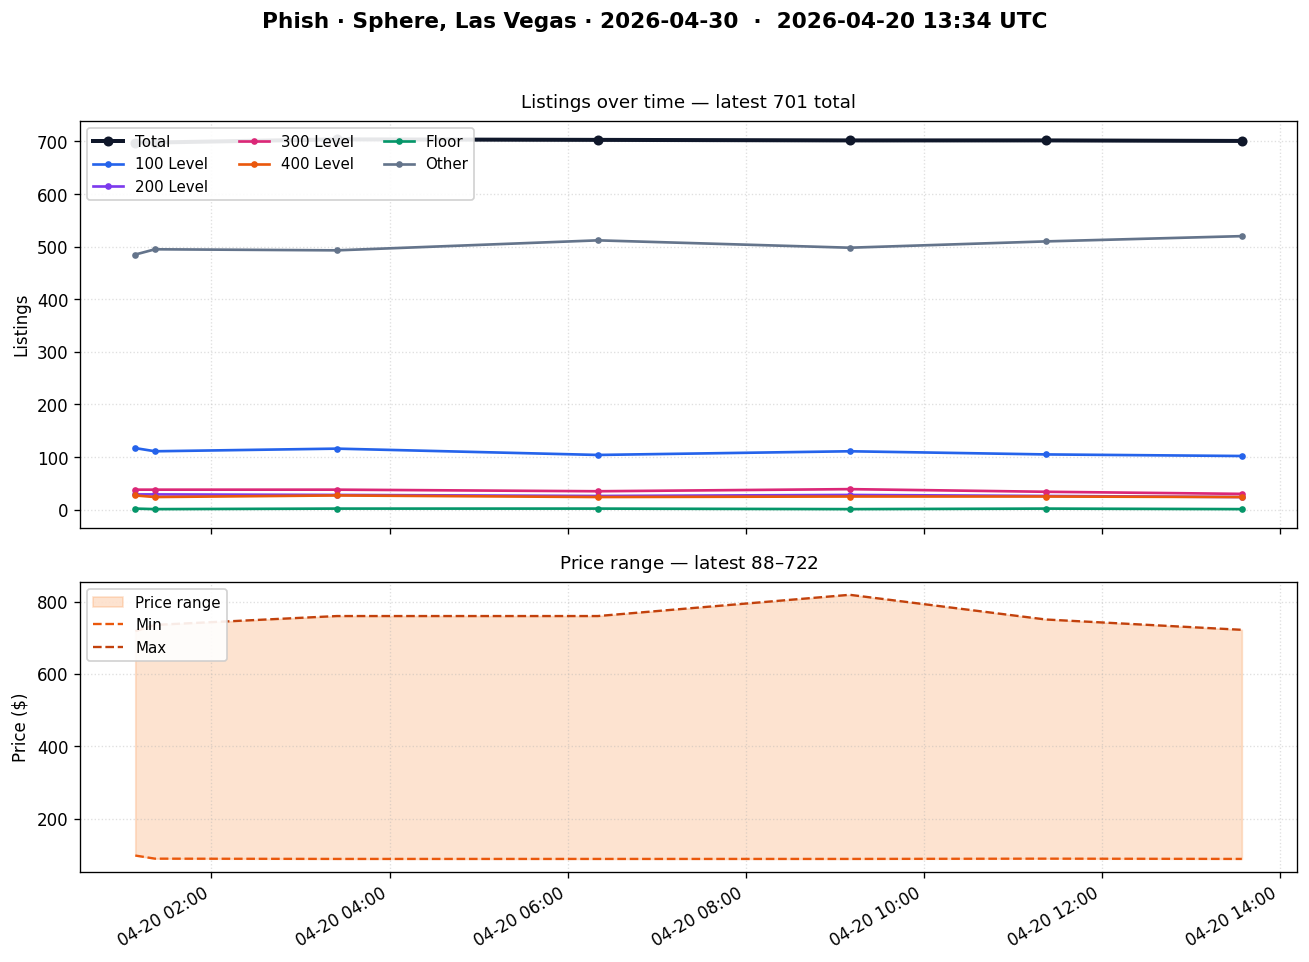
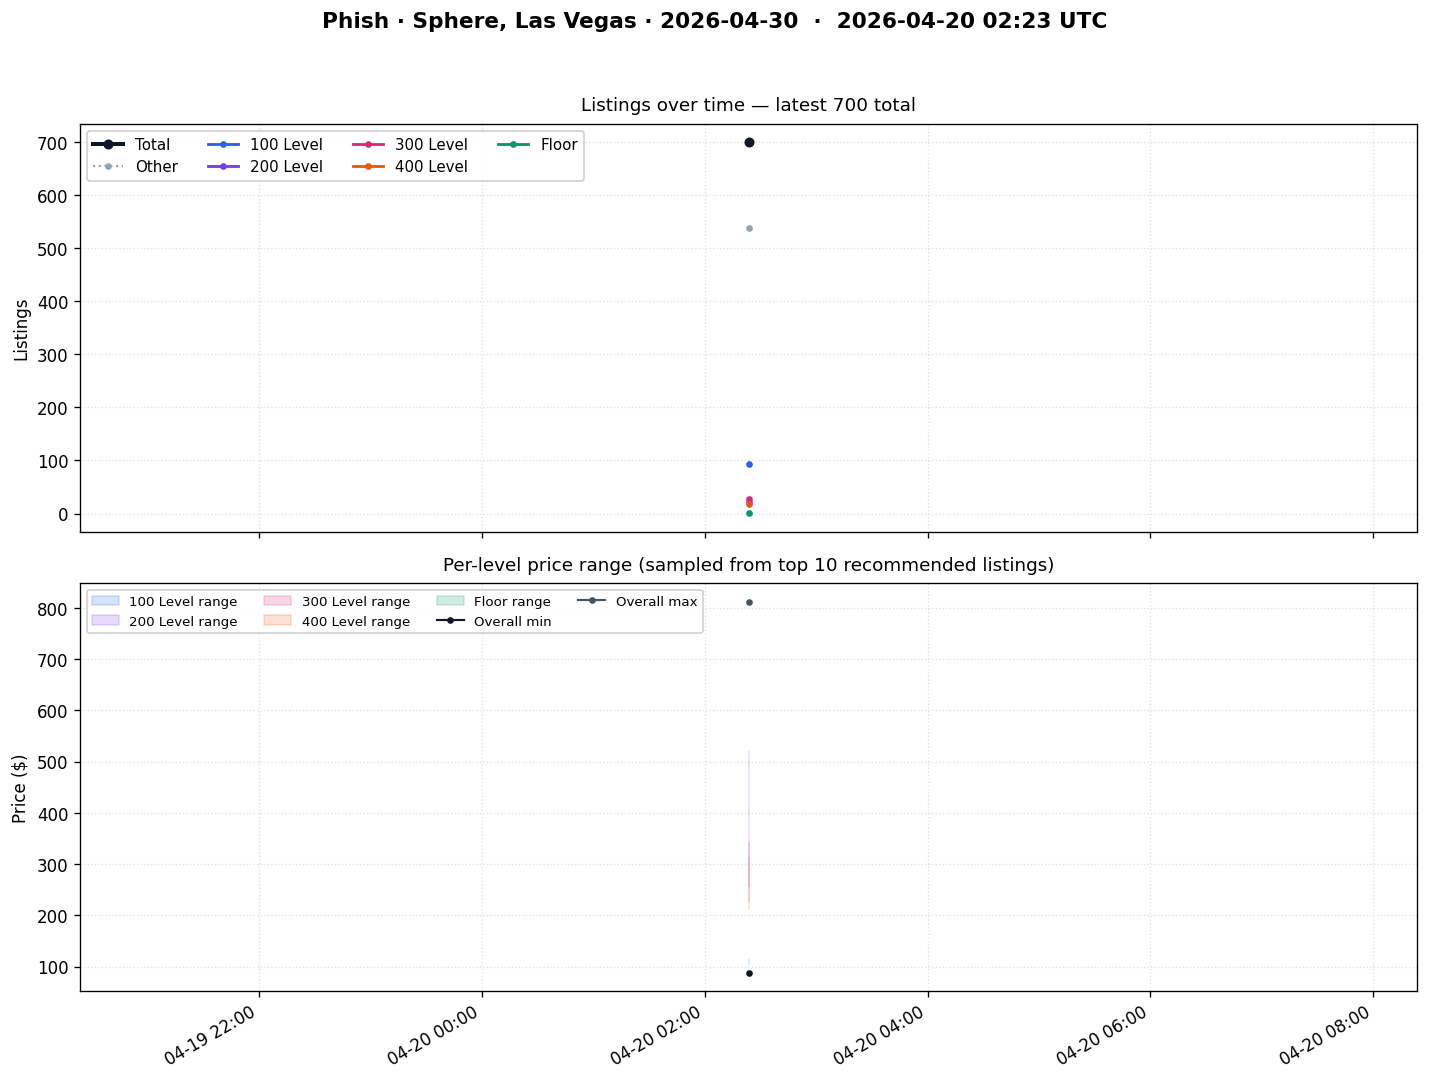
track per-level price range (min/max from sampled top 10 listings per class)

diff --git a/dashboard.html b/dashboard.html
@@ -44,6 +44,7 @@
   .stat .label { font-size: 11px; color: var(--muted); text-transform: uppercase; letter-spacing: 0.05em; }
   .stat .value { font-size: 22px; font-weight: 600; margin-top: 4px; }
   .stat .delta { font-size: 12px; color: var(--muted); margin-top: 2px; }
+  .stat .price-range { font-size: 11px; color: var(--muted); margin-top: 6px; font-variant-numeric: tabular-nums; }
   .delta.up { color: #15803d; }
   .delta.down { color: #b91c1c; }
   .stat.big .value { font-size: 28px; }
@@ -90,12 +91,12 @@
   </section>
 
   <section class="level-stats">
-    <div class="stat" style="border-left-color:#2563eb"><div class="label">100 Level</div><div class="value" id="s-100">—</div><div class="delta" id="s-100-delta"></div></div>
-    <div class="stat" style="border-left-color:#7c3aed"><div class="label">200 Level</div><div class="value" id="s-200">—</div><div class="delta" id="s-200-delta"></div></div>
-    <div class="stat" style="border-left-color:#db2777"><div class="label">300 Level</div><div class="value" id="s-300">—</div><div class="delta" id="s-300-delta"></div></div>
-    <div class="stat" style="border-left-color:#ea580c"><div class="label">400 Level</div><div class="value" id="s-400">—</div><div class="delta" id="s-400-delta"></div></div>
-    <div class="stat" style="border-left-color:#059669"><div class="label">Floor</div><div class="value" id="s-floor">—</div><div class="delta" id="s-floor-delta"></div></div>
-    <div class="stat" style="border-left-color:#64748b"><div class="label">Other (Suites, zones)</div><div class="value" id="s-other">—</div><div class="delta" id="s-other-delta"></div></div>
+    <div class="stat" style="border-left-color:#2563eb"><div class="label">100 Level</div><div class="value" id="s-100">—</div><div class="delta" id="s-100-delta"></div><div class="price-range" id="s-100-price">—</div></div>
+    <div class="stat" style="border-left-color:#7c3aed"><div class="label">200 Level</div><div class="value" id="s-200">—</div><div class="delta" id="s-200-delta"></div><div class="price-range" id="s-200-price">—</div></div>
+    <div class="stat" style="border-left-color:#db2777"><div class="label">300 Level</div><div class="value" id="s-300">—</div><div class="delta" id="s-300-delta"></div><div class="price-range" id="s-300-price">—</div></div>
+    <div class="stat" style="border-left-color:#ea580c"><div class="label">400 Level</div><div class="value" id="s-400">—</div><div class="delta" id="s-400-delta"></div><div class="price-range" id="s-400-price">—</div></div>
+    <div class="stat" style="border-left-color:#059669"><div class="label">Floor</div><div class="value" id="s-floor">—</div><div class="delta" id="s-floor-delta"></div><div class="price-range" id="s-floor-price">—</div></div>
+    <div class="stat" style="border-left-color:#64748b"><div class="label">Other (Suites, zones)</div><div class="value" id="s-other">—</div><div class="delta" id="s-other-delta"></div><div class="price-range">—</div></div>
   </section>
 
   <div class="chart-card">
@@ -107,14 +108,13 @@
     <thead><tr>
       <th>Timestamp (UTC)</th>
       <th class="num">Total</th>
-      <th class="num">100</th>
-      <th class="num">200</th>
-      <th class="num">300</th>
-      <th class="num">400</th>
-      <th class="num">Floor</th>
+      <th class="num">100</th><th class="num">100 $</th>
+      <th class="num">200</th><th class="num">200 $</th>
+      <th class="num">300</th><th class="num">300 $</th>
+      <th class="num">400</th><th class="num">400 $</th>
+      <th class="num">Floor</th><th class="num">Floor $</th>
       <th class="num">Other</th>
-      <th class="num">Min $</th>
-      <th class="num">Max $</th>
+      <th class="num">Overall $</th>
     </tr></thead>
     <tbody></tbody>
   </table>
@@ -194,22 +194,37 @@ async function refresh() {
     LEVEL_IDS.forEach(([col, id]) => {
       document.getElementById(id).textContent = fmt(latest[col]);
       if (prev) document.getElementById(id + "-delta").innerHTML = delta(latest[col], prev[col]);
+      // Per-level price range (skip for "other")
+      const priceEl = document.getElementById(id + "-price");
+      if (priceEl) {
+        const key = col.replace("count_", "");
+        const mn = latest[`min_${key}`];
+        const mx = latest[`max_${key}`];
+        if (mn && mx && !isNaN(+mn) && !isNaN(+mx)) {
+          priceEl.textContent = `$${fmt(mn)}–$${fmt(mx)}`;
+        } else {
+          priceEl.textContent = "—";
+        }
+      }
     });
 
     const tbody = document.querySelector("#table tbody");
     tbody.innerHTML = "";
+    const priceCell = (mn, mx) => {
+      if (!mn || !mx || isNaN(+mn) || isNaN(+mx)) return `<td class="num">—</td>`;
+      return `<td class="num">$${fmt(mn)}–$${fmt(mx)}</td>`;
+    };
     rows.slice(-20).reverse().forEach(r => {
       const tr = document.createElement("tr");
       tr.innerHTML = `<td>${r.timestamp_utc}</td>`
         + `<td class="num"><b>${fmt(r.total_listings)}</b></td>`
-        + `<td class="num">${fmt(r.count_100)}</td>`
-        + `<td class="num">${fmt(r.count_200)}</td>`
-        + `<td class="num">${fmt(r.count_300)}</td>`
-        + `<td class="num">${fmt(r.count_400)}</td>`
-        + `<td class="num">${fmt(r.count_floor)}</td>`
+        + `<td class="num">${fmt(r.count_100)}</td>` + priceCell(r.min_100, r.max_100)
+        + `<td class="num">${fmt(r.count_200)}</td>` + priceCell(r.min_200, r.max_200)
+        + `<td class="num">${fmt(r.count_300)}</td>` + priceCell(r.min_300, r.max_300)
+        + `<td class="num">${fmt(r.count_400)}</td>` + priceCell(r.min_400, r.max_400)
+        + `<td class="num">${fmt(r.count_floor)}</td>` + priceCell(r.min_floor, r.max_floor)
         + `<td class="num">${fmt(r.count_other)}</td>`
-        + `<td class="num">$${fmt(r.min_price)}</td>`
-        + `<td class="num">$${fmt(r.max_price)}</td>`;
+        + `<td class="num">$${fmt(r.min_price)}–$${fmt(r.max_price)}</td>`;
       tbody.appendChild(tr);
     });
 

diff --git a/plot.py b/plot.py
@@ -1,4 +1,4 @@
-"""Render chart.png from data.csv: total + per-level listings + price range over time."""
+"""Render chart.png from data.csv: per-level listings and price ranges over time."""
 
 from __future__ import annotations
 
@@ -16,13 +16,13 @@ DATA = ROOT / "data.csv"
 OUT = ROOT / "chart.png"
 EVENT_LABEL = "Phish · Sphere, Las Vegas · 2026-04-30"
 
+# key, label, color
 LEVELS = [
-    ("count_100", "100 Level", "#2563eb"),
-    ("count_200", "200 Level", "#7c3aed"),
-    ("count_300", "300 Level", "#db2777"),
-    ("count_400", "400 Level", "#ea580c"),
-    ("count_floor", "Floor", "#059669"),
-    ("count_other", "Other", "#64748b"),
+    ("100", "100 Level", "#2563eb"),
+    ("200", "200 Level", "#7c3aed"),
+    ("300", "300 Level", "#db2777"),
+    ("400", "400 Level", "#ea580c"),
+    ("floor", "Floor", "#059669"),
 ]
 
 
@@ -37,56 +37,71 @@ def main() -> int:
         print("no valid rows to plot", file=sys.stderr)
         return 1
 
-    fig, (ax_top, ax_bot) = plt.subplots(
-        2, 1, figsize=(11, 8), sharex=True,
-        gridspec_kw={"height_ratios": [1.4, 1]},
+    fig, (ax_count, ax_price) = plt.subplots(
+        2, 1, figsize=(12, 9), sharex=True,
+        gridspec_kw={"height_ratios": [1, 1]},
     )
 
-    # Top: total + per-level lines
-    ax_top.plot(
+    # Top: total + per-level listing counts
+    ax_count.plot(
         df["timestamp_utc"], df["total_listings"],
         color="#0f172a", linewidth=2.4, marker="o", markersize=5, label="Total",
     )
-    for col, label, color in LEVELS:
-        if col not in df.columns or df[col].isna().all():
-            continue
-        ax_top.plot(
-            df["timestamp_utc"], df[col],
-            color=color, linewidth=1.6, marker="o", markersize=3, label=label,
+    if "count_other" in df.columns and df["count_other"].notna().any():
+        ax_count.plot(
+            df["timestamp_utc"], df["count_other"],
+            color="#94a3b8", linewidth=1.3, linestyle=":", marker="o", markersize=3, label="Other",
         )
-    ax_top.set_ylabel("Listings")
-    ax_top.grid(True, linestyle=":", alpha=0.4)
-    ax_top.legend(loc="upper left", framealpha=0.9, fontsize=9, ncol=3)
-    ax_top.set_title(
-        f"Listings over time — latest {int(df.iloc[-1]['total_listings'])} total",
+    for key, label, color in LEVELS:
+        col = f"count_{key}"
+        if col in df.columns and df[col].notna().any():
+            ax_count.plot(
+                df["timestamp_utc"], df[col],
+                color=color, linewidth=1.7, marker="o", markersize=3, label=label,
+            )
+    ax_count.set_ylabel("Listings")
+    ax_count.grid(True, linestyle=":", alpha=0.4)
+    ax_count.legend(loc="upper left", framealpha=0.9, fontsize=9, ncol=4)
+    latest = df.iloc[-1]
+    ax_count.set_title(
+        f"Listings over time — latest {int(latest['total_listings'])} total",
         fontsize=11, pad=8,
     )
 
-    # Bottom: price range band
-    has_prices = df["min_price"].notna().any() and df["max_price"].notna().any()
-    if has_prices:
-        ax_bot.fill_between(
-            df["timestamp_utc"], df["min_price"], df["max_price"],
-            color="#f97316", alpha=0.2, label="Price range",
+    # Bottom: per-level price range bands + overall line
+    for key, label, color in LEVELS:
+        mn, mx = f"min_{key}", f"max_{key}"
+        if mn in df.columns and mx in df.columns and df[mn].notna().any():
+            ax_price.fill_between(
+                df["timestamp_utc"], df[mn], df[mx],
+                color=color, alpha=0.18, label=f"{label} range",
+            )
+            ax_price.plot(df["timestamp_utc"], df[mn], color=color, linewidth=1.3, linestyle="--", alpha=0.9)
+            ax_price.plot(df["timestamp_utc"], df[mx], color=color, linewidth=1.3, linestyle="--", alpha=0.9)
+
+    if df["min_price"].notna().any():
+        ax_price.plot(
+            df["timestamp_utc"], df["min_price"],
+            color="#0f172a", linewidth=1.3, marker="o", markersize=3, label="Overall min",
         )
-        ax_bot.plot(df["timestamp_utc"], df["min_price"],
-                    color="#ea580c", linewidth=1.4, linestyle="--", label="Min")
-        ax_bot.plot(df["timestamp_utc"], df["max_price"],
-                    color="#c2410c", linewidth=1.4, linestyle="--", label="Max")
-    ax_bot.set_ylabel("Price ($)")
-    ax_bot.grid(True, linestyle=":", alpha=0.4)
-    ax_bot.legend(loc="upper left", framealpha=0.9, fontsize=9)
-    latest = df.iloc[-1]
-    if pd.notna(latest.get("min_price")) and pd.notna(latest.get("max_price")):
-        ax_bot.set_title(
-            f"Price range — latest ${latest['min_price']:.0f}–${latest['max_price']:.0f}",
-            fontsize=11, pad=8,
+    if df["max_price"].notna().any():
+        ax_price.plot(
+            df["timestamp_utc"], df["max_price"],
+            color="#475569", linewidth=1.3, marker="o", markersize=3, label="Overall max",
         )
 
-    ax_bot.xaxis.set_major_formatter(mdates.DateFormatter("%m-%d %H:%M"))
+    ax_price.set_ylabel("Price ($)")
+    ax_price.grid(True, linestyle=":", alpha=0.4)
+    ax_price.legend(loc="upper left", framealpha=0.9, fontsize=8, ncol=4)
+    ax_price.set_title(
+        "Per-level price range (sampled from top 10 recommended listings)",
+        fontsize=11, pad=8,
+    )
+
+    ax_price.xaxis.set_major_formatter(mdates.DateFormatter("%m-%d %H:%M"))
     if len(df) < 3:
         center = df["timestamp_utc"].iloc[-1]
-        ax_bot.set_xlim(center - pd.Timedelta(hours=6), center + pd.Timedelta(hours=6))
+        ax_price.set_xlim(center - pd.Timedelta(hours=6), center + pd.Timedelta(hours=6))
     fig.autofmt_xdate()
 
     fig.suptitle(

diff --git a/monitor.py b/monitor.py
@@ -23,20 +23,22 @@ DATA_CSV = Path(__file__).parent / "data.csv"
 # Sphere ticket classes. Stable for this event's lifetime.
 # Source: /index-data -> ticketClasses[*].{ticketClassId, name}
 TICKET_CLASSES: list[tuple[int, str, str]] = [
-    (3788, "100 Level", "count_100"),
-    (3803, "200 Level", "count_200"),
-    (17690, "300 Level", "count_300"),
-    (8152, "400 Level", "count_400"),
-    (682, "Floor", "count_floor"),
+    (3788, "100 Level", "100"),
+    (3803, "200 Level", "200"),
+    (17690, "300 Level", "300"),
+    (8152, "400 Level", "400"),
+    (682, "Floor", "floor"),
 ]
 
 CSV_COLUMNS = [
     "timestamp_utc",
     "total_listings",
-    *(col for _, _, col in TICKET_CLASSES),
+    *(f"count_{k}" for _, _, k in TICKET_CLASSES),
     "count_other",
     "min_price",
     "max_price",
+    *(f"min_{k}" for _, _, k in TICKET_CLASSES),
+    *(f"max_{k}" for _, _, k in TICKET_CLASSES),
     "available_tickets",
 ]
 
@@ -111,7 +113,7 @@ def scrape() -> dict:
                 row["min_price"] = min_p
                 row["max_price"] = max_p
 
-            for tc_id, tc_name, col in TICKET_CLASSES:
+            for tc_id, tc_name, key in TICKET_CLASSES:
                 # quantity=0 → include listings of any size (single + pairs + groups)
                 url = f"{EVENT_URL}?ticketClasses={tc_id}&quantity=0"
                 d = fetch_index_data(page, url)
@@ -119,16 +121,23 @@ def scrape() -> dict:
                     continue
                 grid = d.get("grid") or {}
                 count = grid.get("totalFilteredListings")
-                if count is None:
+                if count is not None:
+                    row[f"count_{key}"] = count
+                else:
                     print(f"warning: no totalFilteredListings for {tc_name}", file=sys.stderr)
-                    continue
-                row[col] = count
+                # Per-class price range from visible items (sample of top 10 recommended)
+                items = grid.get("items") or []
+                prices = [i.get("rawPrice") for i in items if isinstance(i.get("rawPrice"), (int, float))]
+                if prices:
+                    row[f"min_{key}"] = round(min(prices), 2)
+                    row[f"max_{key}"] = round(max(prices), 2)
         finally:
             browser.close()
 
     # Derive "other" bucket (Suites, zone tickets, etc. not in the 5 named levels).
     per_level_sum = sum(
-        row[col] for _, _, col in TICKET_CLASSES if isinstance(row[col], int)
+        row[f"count_{key}"] for _, _, key in TICKET_CLASSES
+        if isinstance(row[f"count_{key}"], int)
     )
     if isinstance(row["total_listings"], int):
         row["count_other"] = max(row["total_listings"] - per_level_sum, 0)
@@ -154,11 +163,12 @@ def main() -> int:
         row["timestamp_utc"] = datetime.now(timezone.utc).isoformat(timespec="seconds")
     append_row(row)
     per_level = " ".join(
-        f"{name.split()[0]}={row[col]}" for _, name, col in TICKET_CLASSES
+        f"{name.split()[0]}={row[f'count_{key}']}(${row[f'min_{key}']}-${row[f'max_{key}']})"
+        for _, name, key in TICKET_CLASSES
     )
     print(
         f"logged: total={row['total_listings']} {per_level} other={row['count_other']} "
-        f"min=${row['min_price']} max=${row['max_price']} "
+        f"overall ${row['min_price']}-${row['max_price']} "
         f"at {row['timestamp_utc']}"
     )
     return 0
